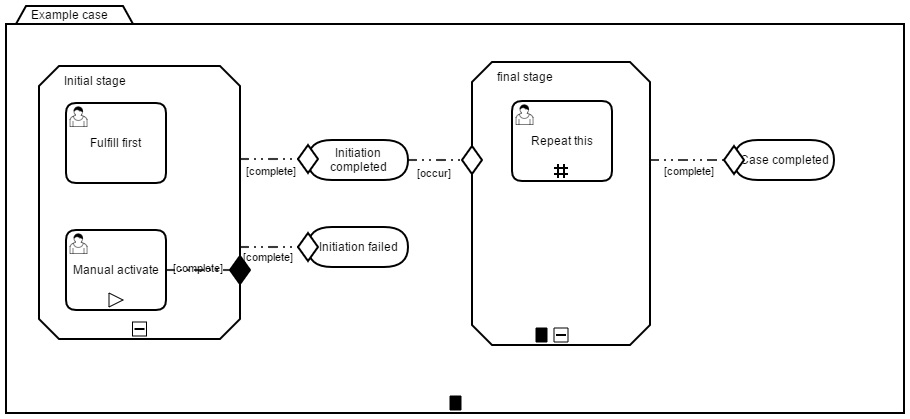
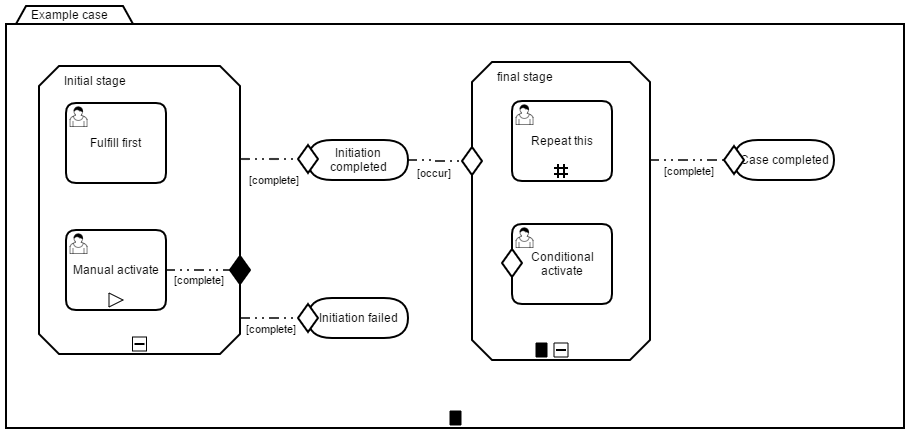
entry criterion

diff --git a/src/test/java/com/camunda/consulting/bpmn_cmmn_example/nonarquillian/InMemoryH2Test.java b/src/test/java/com/camunda/consulting/bpmn_cmmn_example/nonarquillian/InMemoryH2Test.java
@@ -6,12 +6,15 @@ import org.camunda.bpm.engine.runtime.CaseExecution;
 import org.camunda.bpm.engine.runtime.CaseInstance;
 import org.camunda.bpm.engine.runtime.ProcessInstance;
 import org.camunda.bpm.engine.test.ProcessEngineRule;
+import org.camunda.bpm.engine.test.mock.Mocks;
 import org.camunda.bpm.engine.test.Deployment;
 import org.junit.Before;
 import org.junit.Rule;
 import org.junit.Test;
 import org.slf4j.Logger;
 import org.slf4j.LoggerFactory;
+
+import com.camunda.consulting.bpmn_cmmn_example.CustomerValueBean;
 
 import static org.camunda.bpm.engine.test.assertions.ProcessEngineTests.*;
 import static org.junit.Assert.*;
@@ -112,6 +115,7 @@ public class InMemoryH2Test {
     caseService().manuallyStartCaseExecution(manualActivateHumanTask.getId());
     assertThat(caseExecution("manualActivateHumanTask", caseInstance)).isActive();
     complete(caseExecution("fulfillFirstHumanTask", caseInstance));
+    logStateOfAllElements(caseInstance);
     complete(manualActivateHumanTask, withVariables("initSuccessful", true));
     logStateOfAllElements(caseInstance);
     logCaseHistory(caseInstance);
@@ -130,6 +134,45 @@ public class InMemoryH2Test {
     complete(caseExecution("fulfillFirstHumanTask", caseInstance), withVariables("initSuccessful", true));
     complete(caseExecution("initialStage", caseInstance));
     assertThat(caseExecution("repeatThisHumanTask", caseInstance)).isActive();
+  }
+  
+  @Test
+  @Deployment(resources = "exampleCase.cmmn")
+  public void testEntryCriterionCustomerValueBigEnough() {
+    CustomerValueBean customerValueBean = new CustomerValueBean();
+    Mocks.register("customerValueBean", customerValueBean);
+    CaseInstance caseInstance = caseService().createCaseInstanceByKey("ExampleCase");
+    completeFirstStageSuccessful(caseInstance);
+    
+    assertThat(caseExecution("conditionalActivateHumanTask", caseInstance)).isAvailable();
+    
+    customerValueBean.setCustomerValue(1001);
+    caseService().setVariable(caseInstance.getCaseInstanceId(), "customerValueChanged", true);
+    
+    assertThat(caseExecution("conditionalActivateHumanTask", caseInstance)).isActive();
+  }
+
+  @Test
+  @Deployment(resources = "exampleCase.cmmn")
+  public void testEntryCriterionCustomerValueSet() {
+    CustomerValueBean customerValueBean = new CustomerValueBean();
+    Mocks.register("customerValueBean", customerValueBean);
+    CaseInstance caseInstance = caseService().createCaseInstanceByKey("ExampleCase");
+    completeFirstStageSuccessful(caseInstance);
+
+    customerValueBean.setCustomerValue(20);
+    caseService().setVariable(caseInstance.getCaseInstanceId(), "customerValueChanged", true);    
+    assertThat(caseExecution("conditionalActivateHumanTask", caseInstance)).isAvailable();
+    
+    customerValueBean.setCustomerValue(1001);
+    caseService().setVariable(caseInstance.getCaseInstanceId(), "customerValueChanged", true);
+    
+    assertThat(caseExecution("conditionalActivateHumanTask", caseInstance)).isActive();
+  }
+
+  private void completeFirstStageSuccessful(CaseInstance caseInstance) {
+    complete(caseExecution("fulfillFirstHumanTask", caseInstance), withVariables("initSuccessful", true));
+    complete(caseExecution("initialStage", caseInstance));
   }
 
   private void logStateOfAllElements(CaseInstance caseInstance) {

diff --git a/src/main/java/com/camunda/consulting/bpmn_cmmn_example/CustomerValueBean.java b/src/main/java/com/camunda/consulting/bpmn_cmmn_example/CustomerValueBean.java
@@ -1,0 +1,23 @@
+package com.camunda.consulting.bpmn_cmmn_example;
+
+public class CustomerValueBean {
+  
+  private int customerValue = 0;
+  
+  public CustomerValueBean() {
+    
+  }
+
+  public int getCustomerValue() {
+    return customerValue;
+  }
+
+  public void setCustomerValue(int customerValue) {
+    this.customerValue = customerValue;
+  }
+  
+  public boolean isValueHighEnough() {
+    return customerValue > 1000 ? true : false;
+  }
+
+}

diff --git a/README.md b/README.md
@@ -30,7 +30,29 @@ Exit criterions mark the case as TERMINATED, but the process continues after the
 See [https://app.camunda.com/jira/browse/CAM-6087](https://app.camunda.com/jira/browse/CAM-6087) and the linked forum posts for further details.
 Workarounds: 
 	- Mark the stage with autoComplete.
-	- Terminate the other tasks with a task listener on manual task->complete. See [CompleteStageListener.java](src/main/java/com/camunda/consulting/bpmn_cmmn_example/CompleteStageListener.java) for details.
+	- Terminate the other tasks with a task listener on `complete` event. See [CompleteStageListener.java](src/main/java/com/camunda/consulting/bpmn_cmmn_example/CompleteStageListener.java) for details. 
+This task listener isn't able to terminate available tasks directly, they have to be in the state `active`. This is the error message:
+```
+ENGINE-05011 Could not perform transition 'terminate on case execution with id '419'.Reason: The case execution must be in state 'active' to terminate, but it was in state 'available'
+```
+Go for the autoComplete, here it works.
+
+3. Entry criterions can check if a variable has a certain value. But this variable has to be initialized (even empty) before, otherwise you will get a `Unknown property used in expression` exception. Workaround is to call the Java-API in the expression:
+```
+${caseExecution.hasVariable("customerValueChanged")}
+```
+
+4. If you want to use beans with certain evaluation logic in entry criterions, the most easy way to trigger the evaluation on a change in bean state, is to set a case variable and include it in the ifPart:
+```
+<cmmn:ifPart id="IfPart_1">
+    <cmmn:condition id="Expression_1"><![CDATA[${caseExecution.hasVariable("customerValueChanged") && customerValueBean.isValueHighEnough()}]]></cmmn:condition>
+</cmmn:ifPart>
+```
+The activation of the Condition activate task may look like this:
+```
+customerValueBean.setCustomerValue(1001);
+caseService().setVariable(caseInstance.getCaseInstanceId(), "customerValueChanged", true);
+```
 
 ## Show me the important parts!
 ![BPMN Process](src/main/resources/exampleCase.png)
